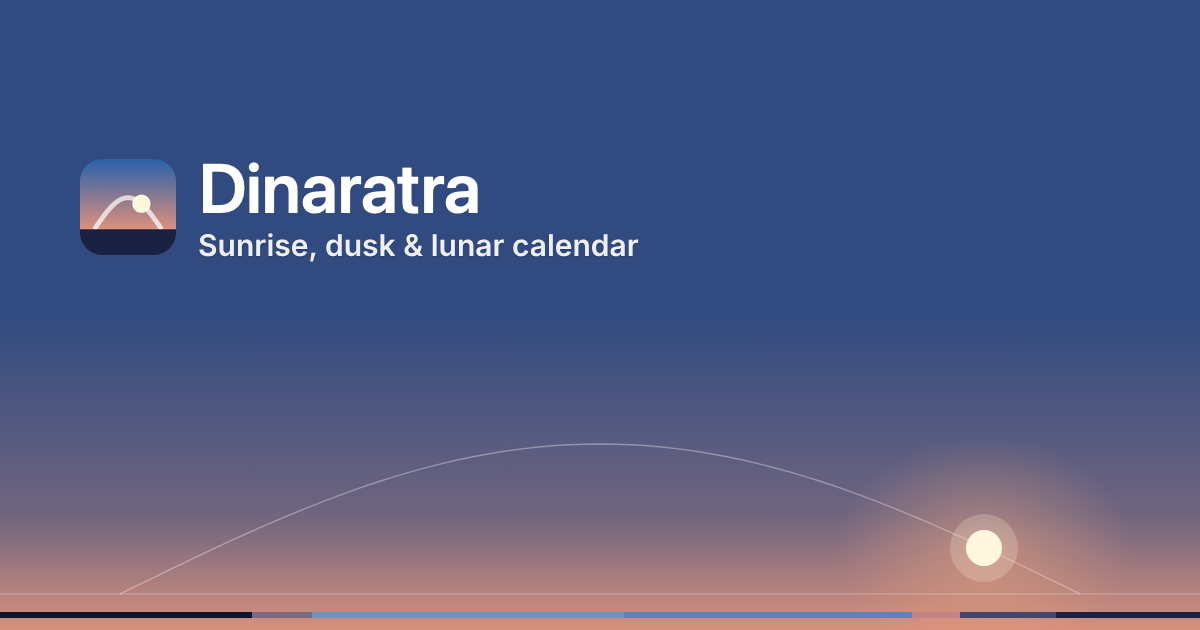
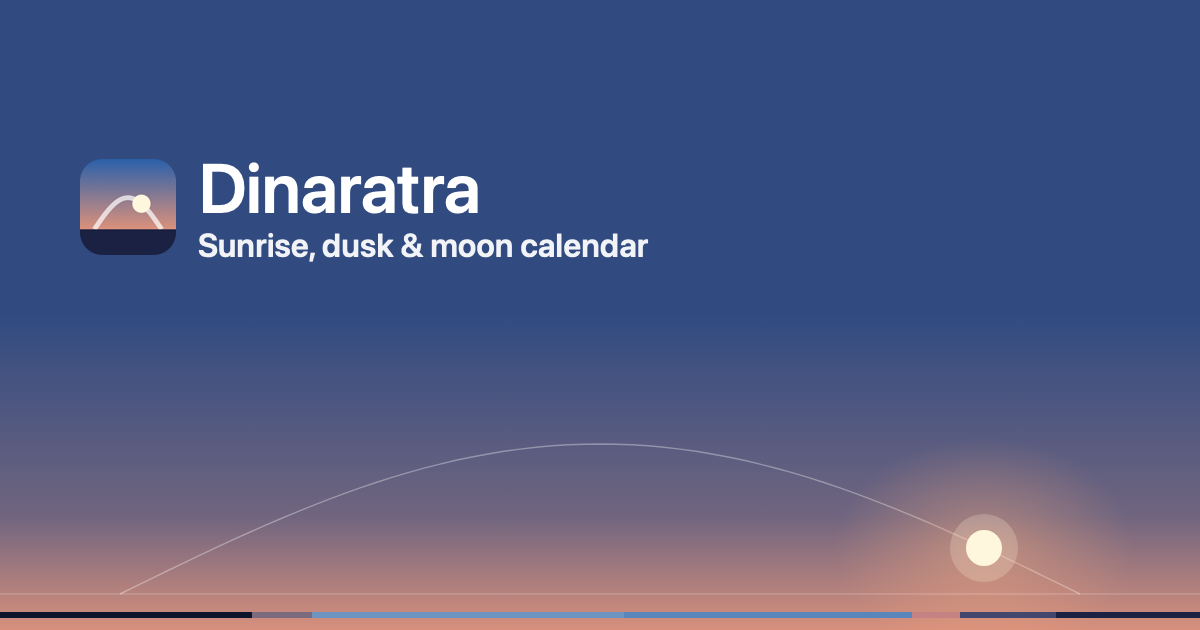
The tagline is "Sunrise, dusk & moon calendar" (the owner, 25 Nov)
It matches the App Store subtitle: the pages' descriptions, the home
page's eyebrow and the footers, and og.png's second line (served as ?v=4).

Changed region(s): [[0.1542, 0.3619, 0.555, 0.4222]]

diff --git a/index.html b/index.html
@@ -5,21 +5,21 @@
 <meta name="viewport" content="width=device-width, initial-scale=1">
 <meta name="apple-itunes-app" content="app-id=6817597114">
 <title>Dinaratra™: Sun &amp; Moon Planner</title>
-<meta name="description" content="Sunrise, dusk &amp; lunar calendar">
+<meta name="description" content="Sunrise, dusk &amp; moon calendar">
 <meta name="color-scheme" content="light dark">
 <meta name="theme-color" content="#314B81" media="(prefers-color-scheme: light)">
 <meta name="theme-color" content="#091024" media="(prefers-color-scheme: dark)">
 <link rel="icon" href="/favicon.png" type="image/png">
 <link rel="apple-touch-icon" href="/apple-touch-icon.png">
 <meta property="og:title" content="Dinaratra™: Sun &amp; Moon Planner">
-<meta property="og:description" content="Sunrise, dusk &amp; lunar calendar">
-<meta property="og:image" content="https://dinaratra.day/og.png?v=3">
+<meta property="og:description" content="Sunrise, dusk &amp; moon calendar">
+<meta property="og:image" content="https://dinaratra.day/og.png?v=4">
 <meta property="og:url" content="https://dinaratra.day/">
 <link rel="stylesheet" href="/assets/site.css">
 </head>
 <body>
 <div class="site">
-<section class="hero" aria-labelledby="h1"><div class="sky"><svg viewBox="0 0 1440 640" preserveAspectRatio="xMidYMax slice" aria-hidden="true" focusable="false"><defs><linearGradient id="hskyd" x1="0" y1="0" x2="0" y2="1"><stop offset="0" stop-color="#314B81"/><stop offset=".5" stop-color="#314B81"/><stop offset=".82" stop-color="#70657F"/><stop offset="1" stop-color="#D8907C"/></linearGradient><linearGradient id="hskyn" x1="0" y1="0" x2="0" y2="1"><stop offset="0" stop-color="#091024"/><stop offset=".7" stop-color="#0C1329"/><stop offset="1" stop-color="#101830"/></linearGradient><radialGradient id="hglow"><stop offset="0" stop-color="#FFAF7F" stop-opacity=".45"/><stop offset="1" stop-color="#FFAF7F" stop-opacity="0"/></radialGradient><radialGradient id="hmglow"><stop offset="0" stop-color="#F6F4EC" stop-opacity=".22"/><stop offset="1" stop-color="#F6F4EC" stop-opacity="0"/></radialGradient></defs><g class="day"><rect width="1440" height="640" style="fill:url(#hskyd)"/><polyline points="120.0,604.0 140.0,596.1 160.0,588.3 180.0,580.5 200.0,572.8 220.0,565.2 240.0,557.6 260.0,550.2 280.0,543.0 300.0,535.9 320.0,529.0 340.0,522.3 360.0,515.8 380.0,509.6 400.0,503.6 420.0,497.9 440.0,492.5 460.0,487.4 480.0,482.6 500.0,478.2 520.0,474.1 540.0,470.3 560.0,467.0 580.0,464.0 600.0,461.3 620.0,459.1 640.0,457.3 660.0,455.8 680.0,454.8 700.0,454.2 720.0,454.0 740.0,454.2 760.0,454.8 780.0,455.8 800.0,457.3 820.0,459.1 840.0,461.3 860.0,464.0 880.0,467.0 900.0,470.3 920.0,474.1 940.0,478.2 960.0,482.6 980.0,487.4 1000.0,492.5 1020.0,497.9 1040.0,503.6 1060.0,509.6 1080.0,515.8 1100.0,522.3 1120.0,529.0 1140.0,535.9 1160.0,543.0 1180.0,550.2 1200.0,557.6 1220.0,565.2 1240.0,572.8 1260.0,580.5 1280.0,588.3 1300.0,596.1 1320.0,604.0" style="fill:none;stroke:#FFFFFF;stroke-width:1.4;opacity:.34"/><ellipse cx="1200" cy="558" rx="150" ry="110" style="fill:url(#hglow)"/><circle cx="1200" cy="558" r="34" style="fill:#FFF6DE;opacity:.22"/><circle cx="1200" cy="558" r="18" style="fill:#FFF6DE"/></g><g class="night"><rect width="1440" height="640" style="fill:url(#hskyn)"/><circle cx="97" cy="427.48" r="1.0" style="fill:#FFFFFF;opacity:0.40"/><circle cx="194" cy="405.48" r="1.4" style="fill:#FFFFFF;opacity:0.50"/><circle cx="291" cy="489.48" r="0.7" style="fill:#FFFFFF;opacity:0.60"/><circle cx="388" cy="498.48" r="1.0" style="fill:#FFFFFF;opacity:0.30"/><circle cx="485" cy="432.48" r="1.4" style="fill:#FFFFFF;opacity:0.40"/><circle cx="582" cy="472.48" r="0.7" style="fill:#FFFFFF;opacity:0.50"/><circle cx="679" cy="437.48" r="1.0" style="fill:#FFFFFF;opacity:0.60"/><circle cx="776" cy="508.48" r="1.4" style="fill:#FFFFFF;opacity:0.30"/><circle cx="873" cy="504.48" r="0.7" style="fill:#FFFFFF;opacity:0.40"/><circle cx="970" cy="425.48" r="1.0" style="fill:#FFFFFF;opacity:0.50"/><circle cx="1067" cy="452.48" r="1.4" style="fill:#FFFFFF;opacity:0.60"/><circle cx="1164" cy="404.48" r="0.7" style="fill:#FFFFFF;opacity:0.30"/><circle cx="1261" cy="462.48" r="1.0" style="fill:#FFFFFF;opacity:0.40"/><circle cx="1358" cy="445.48" r="1.4" style="fill:#FFFFFF;opacity:0.50"/><circle cx="15" cy="534.48" r="0.7" style="fill:#FFFFFF;opacity:0.60"/><circle cx="112" cy="548.48" r="1.0" style="fill:#FFFFFF;opacity:0.30"/><circle cx="209" cy="487.48" r="1.4" style="fill:#FFFFFF;opacity:0.40"/><circle cx="306" cy="532.48" r="0.7" style="fill:#FFFFFF;opacity:0.50"/><circle cx="403" cy="502.48" r="1.0" style="fill:#FFFFFF;opacity:0.60"/><circle cx="500" cy="397.48" r="1.4" style="fill:#FFFFFF;opacity:0.30"/><circle cx="597" cy="398.48" r="0.7" style="fill:#FFFFFF;opacity:0.40"/><circle cx="694" cy="505.48" r="1.0" style="fill:#FFFFFF;opacity:0.50"/><circle cx="791" cy="537.48" r="1.4" style="fill:#FFFFFF;opacity:0.60"/><circle cx="888" cy="494.48" r="0.7" style="fill:#FFFFFF;opacity:0.30"/><circle cx="985" cy="376.48" r="1.0" style="fill:#FFFFFF;opacity:0.40"/><circle cx="1082" cy="545.48" r="1.4" style="fill:#FFFFFF;opacity:0.50"/><circle cx="1179" cy="458.48" r="0.7" style="fill:#FFFFFF;opacity:0.60"/><circle cx="1276" cy="477.48" r="1.0" style="fill:#FFFFFF;opacity:0.30"/><circle cx="1373" cy="421.48" r="1.4" style="fill:#FFFFFF;opacity:0.40"/><circle cx="30" cy="471.48" r="0.7" style="fill:#FFFFFF;opacity:0.50"/><circle cx="127" cy="446.48" r="1.0" style="fill:#FFFFFF;opacity:0.60"/><circle cx="224" cy="527.48" r="1.4" style="fill:#FFFFFF;opacity:0.30"/><circle cx="321" cy="533.48" r="0.7" style="fill:#FFFFFF;opacity:0.40"/><circle cx="418" cy="464.48" r="1.0" style="fill:#FFFFFF;opacity:0.50"/><circle cx="515" cy="501.48" r="1.4" style="fill:#FFFFFF;opacity:0.60"/><circle cx="612" cy="463.48" r="0.7" style="fill:#FFFFFF;opacity:0.30"/><circle cx="709" cy="531.48" r="1.0" style="fill:#FFFFFF;opacity:0.40"/><circle cx="806" cy="524.48" r="1.4" style="fill:#FFFFFF;opacity:0.50"/><circle cx="903" cy="442.48" r="0.7" style="fill:#FFFFFF;opacity:0.60"/><polyline points="120.0,604.0 140.0,596.1 160.0,588.3 180.0,580.5 200.0,572.8 220.0,565.2 240.0,557.6 260.0,550.2 280.0,543.0 300.0,535.9 320.0,529.0 340.0,522.3 360.0,515.8 380.0,509.6 400.0,503.6 420.0,497.9 440.0,492.5 460.0,487.4 480.0,482.6 500.0,478.2 520.0,474.1 540.0,470.3 560.0,467.0 580.0,464.0 600.0,461.3 620.0,459.1 640.0,457.3 660.0,455.8 680.0,454.8 700.0,454.2 720.0,454.0 740.0,454.2 760.0,454.8 780.0,455.8 800.0,457.3 820.0,459.1 840.0,461.3 860.0,464.0 880.0,467.0 900.0,470.3 920.0,474.1 940.0,478.2 960.0,482.6 980.0,487.4 1000.0,492.5 1020.0,497.9 1040.0,503.6 1060.0,509.6 1080.0,515.8 1100.0,522.3 1120.0,529.0 1140.0,535.9 1160.0,543.0 1180.0,550.2 1200.0,557.6 1220.0,565.2 1240.0,572.8 1260.0,580.5 1280.0,588.3 1300.0,596.1 1320.0,604.0" style="fill:none;stroke:#FFFFFF;stroke-width:1.4;opacity:.18"/><circle cx="1296" cy="128" r="60" style="fill:url(#hmglow)"/><circle cx="1296" cy="128" r="16" style="fill:#F6F4EC"/></g><line x1="0" y1="604" x2="1440" y2="604" style="stroke:#FFFFFF;stroke-width:1;opacity:.28"/><rect x="0.0" y="622" width="302.4" height="6" style="fill:#0D142B"/><rect x="302.4" y="622" width="72.0" height="6" style="fill:#7C6A7F"/><rect x="374.4" y="622" width="374.4" height="6" style="fill:#6E94C1"/><rect x="748.8" y="622" width="345.6" height="6" style="fill:#5A86BC"/><rect x="1094.4" y="622" width="57.6" height="6" style="fill:#C48283"/><rect x="1152.0" y="622" width="115.2" height="6" style="fill:#43476D"/><rect x="1267.2" y="622" width="172.8" height="6" style="fill:#1A2142"/></svg></div><header class="hdr"><div class="wrap"><a class="brand" href="/"><img class="icon" src="/apple-touch-icon.png" alt="" width="36" height="36"><span>Dinaratra™</span></a><nav aria-label="Site"><a href="/privacy/">Privacy</a><a href="/support/">Support</a></nav></div></header><div class="wrap hero-in"><div class="hero-text"><p class="eyebrow">Sunrise, dusk &amp; lunar calendar</p><h1 id="h1">Dinaratra™ puts the real sun and moon on your day.</h1><p class="lede">Sunrise, sunset, the twilights and the moon are calculated on your iPhone for where you are, and each day’s classical Vedic reading comes with its source. It makes no predictions. You decide.</p><div class="cta"><a class="badge" href="https://apps.apple.com/app/id6817597114"><img src="/assets/badges/app-store-badge-black.svg" alt="Download on the App Store" height="54"></a></div></div><figure class="shot hero-shot">
+<section class="hero" aria-labelledby="h1"><div class="sky"><svg viewBox="0 0 1440 640" preserveAspectRatio="xMidYMax slice" aria-hidden="true" focusable="false"><defs><linearGradient id="hskyd" x1="0" y1="0" x2="0" y2="1"><stop offset="0" stop-color="#314B81"/><stop offset=".5" stop-color="#314B81"/><stop offset=".82" stop-color="#70657F"/><stop offset="1" stop-color="#D8907C"/></linearGradient><linearGradient id="hskyn" x1="0" y1="0" x2="0" y2="1"><stop offset="0" stop-color="#091024"/><stop offset=".7" stop-color="#0C1329"/><stop offset="1" stop-color="#101830"/></linearGradient><radialGradient id="hglow"><stop offset="0" stop-color="#FFAF7F" stop-opacity=".45"/><stop offset="1" stop-color="#FFAF7F" stop-opacity="0"/></radialGradient><radialGradient id="hmglow"><stop offset="0" stop-color="#F6F4EC" stop-opacity=".22"/><stop offset="1" stop-color="#F6F4EC" stop-opacity="0"/></radialGradient></defs><g class="day"><rect width="1440" height="640" style="fill:url(#hskyd)"/><polyline points="120.0,604.0 140.0,596.1 160.0,588.3 180.0,580.5 200.0,572.8 220.0,565.2 240.0,557.6 260.0,550.2 280.0,543.0 300.0,535.9 320.0,529.0 340.0,522.3 360.0,515.8 380.0,509.6 400.0,503.6 420.0,497.9 440.0,492.5 460.0,487.4 480.0,482.6 500.0,478.2 520.0,474.1 540.0,470.3 560.0,467.0 580.0,464.0 600.0,461.3 620.0,459.1 640.0,457.3 660.0,455.8 680.0,454.8 700.0,454.2 720.0,454.0 740.0,454.2 760.0,454.8 780.0,455.8 800.0,457.3 820.0,459.1 840.0,461.3 860.0,464.0 880.0,467.0 900.0,470.3 920.0,474.1 940.0,478.2 960.0,482.6 980.0,487.4 1000.0,492.5 1020.0,497.9 1040.0,503.6 1060.0,509.6 1080.0,515.8 1100.0,522.3 1120.0,529.0 1140.0,535.9 1160.0,543.0 1180.0,550.2 1200.0,557.6 1220.0,565.2 1240.0,572.8 1260.0,580.5 1280.0,588.3 1300.0,596.1 1320.0,604.0" style="fill:none;stroke:#FFFFFF;stroke-width:1.4;opacity:.34"/><ellipse cx="1200" cy="558" rx="150" ry="110" style="fill:url(#hglow)"/><circle cx="1200" cy="558" r="34" style="fill:#FFF6DE;opacity:.22"/><circle cx="1200" cy="558" r="18" style="fill:#FFF6DE"/></g><g class="night"><rect width="1440" height="640" style="fill:url(#hskyn)"/><circle cx="97" cy="427.48" r="1.0" style="fill:#FFFFFF;opacity:0.40"/><circle cx="194" cy="405.48" r="1.4" style="fill:#FFFFFF;opacity:0.50"/><circle cx="291" cy="489.48" r="0.7" style="fill:#FFFFFF;opacity:0.60"/><circle cx="388" cy="498.48" r="1.0" style="fill:#FFFFFF;opacity:0.30"/><circle cx="485" cy="432.48" r="1.4" style="fill:#FFFFFF;opacity:0.40"/><circle cx="582" cy="472.48" r="0.7" style="fill:#FFFFFF;opacity:0.50"/><circle cx="679" cy="437.48" r="1.0" style="fill:#FFFFFF;opacity:0.60"/><circle cx="776" cy="508.48" r="1.4" style="fill:#FFFFFF;opacity:0.30"/><circle cx="873" cy="504.48" r="0.7" style="fill:#FFFFFF;opacity:0.40"/><circle cx="970" cy="425.48" r="1.0" style="fill:#FFFFFF;opacity:0.50"/><circle cx="1067" cy="452.48" r="1.4" style="fill:#FFFFFF;opacity:0.60"/><circle cx="1164" cy="404.48" r="0.7" style="fill:#FFFFFF;opacity:0.30"/><circle cx="1261" cy="462.48" r="1.0" style="fill:#FFFFFF;opacity:0.40"/><circle cx="1358" cy="445.48" r="1.4" style="fill:#FFFFFF;opacity:0.50"/><circle cx="15" cy="534.48" r="0.7" style="fill:#FFFFFF;opacity:0.60"/><circle cx="112" cy="548.48" r="1.0" style="fill:#FFFFFF;opacity:0.30"/><circle cx="209" cy="487.48" r="1.4" style="fill:#FFFFFF;opacity:0.40"/><circle cx="306" cy="532.48" r="0.7" style="fill:#FFFFFF;opacity:0.50"/><circle cx="403" cy="502.48" r="1.0" style="fill:#FFFFFF;opacity:0.60"/><circle cx="500" cy="397.48" r="1.4" style="fill:#FFFFFF;opacity:0.30"/><circle cx="597" cy="398.48" r="0.7" style="fill:#FFFFFF;opacity:0.40"/><circle cx="694" cy="505.48" r="1.0" style="fill:#FFFFFF;opacity:0.50"/><circle cx="791" cy="537.48" r="1.4" style="fill:#FFFFFF;opacity:0.60"/><circle cx="888" cy="494.48" r="0.7" style="fill:#FFFFFF;opacity:0.30"/><circle cx="985" cy="376.48" r="1.0" style="fill:#FFFFFF;opacity:0.40"/><circle cx="1082" cy="545.48" r="1.4" style="fill:#FFFFFF;opacity:0.50"/><circle cx="1179" cy="458.48" r="0.7" style="fill:#FFFFFF;opacity:0.60"/><circle cx="1276" cy="477.48" r="1.0" style="fill:#FFFFFF;opacity:0.30"/><circle cx="1373" cy="421.48" r="1.4" style="fill:#FFFFFF;opacity:0.40"/><circle cx="30" cy="471.48" r="0.7" style="fill:#FFFFFF;opacity:0.50"/><circle cx="127" cy="446.48" r="1.0" style="fill:#FFFFFF;opacity:0.60"/><circle cx="224" cy="527.48" r="1.4" style="fill:#FFFFFF;opacity:0.30"/><circle cx="321" cy="533.48" r="0.7" style="fill:#FFFFFF;opacity:0.40"/><circle cx="418" cy="464.48" r="1.0" style="fill:#FFFFFF;opacity:0.50"/><circle cx="515" cy="501.48" r="1.4" style="fill:#FFFFFF;opacity:0.60"/><circle cx="612" cy="463.48" r="0.7" style="fill:#FFFFFF;opacity:0.30"/><circle cx="709" cy="531.48" r="1.0" style="fill:#FFFFFF;opacity:0.40"/><circle cx="806" cy="524.48" r="1.4" style="fill:#FFFFFF;opacity:0.50"/><circle cx="903" cy="442.48" r="0.7" style="fill:#FFFFFF;opacity:0.60"/><polyline points="120.0,604.0 140.0,596.1 160.0,588.3 180.0,580.5 200.0,572.8 220.0,565.2 240.0,557.6 260.0,550.2 280.0,543.0 300.0,535.9 320.0,529.0 340.0,522.3 360.0,515.8 380.0,509.6 400.0,503.6 420.0,497.9 440.0,492.5 460.0,487.4 480.0,482.6 500.0,478.2 520.0,474.1 540.0,470.3 560.0,467.0 580.0,464.0 600.0,461.3 620.0,459.1 640.0,457.3 660.0,455.8 680.0,454.8 700.0,454.2 720.0,454.0 740.0,454.2 760.0,454.8 780.0,455.8 800.0,457.3 820.0,459.1 840.0,461.3 860.0,464.0 880.0,467.0 900.0,470.3 920.0,474.1 940.0,478.2 960.0,482.6 980.0,487.4 1000.0,492.5 1020.0,497.9 1040.0,503.6 1060.0,509.6 1080.0,515.8 1100.0,522.3 1120.0,529.0 1140.0,535.9 1160.0,543.0 1180.0,550.2 1200.0,557.6 1220.0,565.2 1240.0,572.8 1260.0,580.5 1280.0,588.3 1300.0,596.1 1320.0,604.0" style="fill:none;stroke:#FFFFFF;stroke-width:1.4;opacity:.18"/><circle cx="1296" cy="128" r="60" style="fill:url(#hmglow)"/><circle cx="1296" cy="128" r="16" style="fill:#F6F4EC"/></g><line x1="0" y1="604" x2="1440" y2="604" style="stroke:#FFFFFF;stroke-width:1;opacity:.28"/><rect x="0.0" y="622" width="302.4" height="6" style="fill:#0D142B"/><rect x="302.4" y="622" width="72.0" height="6" style="fill:#7C6A7F"/><rect x="374.4" y="622" width="374.4" height="6" style="fill:#6E94C1"/><rect x="748.8" y="622" width="345.6" height="6" style="fill:#5A86BC"/><rect x="1094.4" y="622" width="57.6" height="6" style="fill:#C48283"/><rect x="1152.0" y="622" width="115.2" height="6" style="fill:#43476D"/><rect x="1267.2" y="622" width="172.8" height="6" style="fill:#1A2142"/></svg></div><header class="hdr"><div class="wrap"><a class="brand" href="/"><img class="icon" src="/apple-touch-icon.png" alt="" width="36" height="36"><span>Dinaratra™</span></a><nav aria-label="Site"><a href="/privacy/">Privacy</a><a href="/support/">Support</a></nav></div></header><div class="wrap hero-in"><div class="hero-text"><p class="eyebrow">Sunrise, dusk &amp; moon calendar</p><h1 id="h1">Dinaratra™ puts the real sun and moon on your day.</h1><p class="lede">Sunrise, sunset, the twilights and the moon are calculated on your iPhone for where you are, and each day’s classical Vedic reading comes with its source. It makes no predictions. You decide.</p><div class="cta"><a class="badge" href="https://apps.apple.com/app/id6817597114"><img src="/assets/badges/app-store-badge-black.svg" alt="Download on the App Store" height="54"></a></div></div><figure class="shot hero-shot">
 <!-- SHOT:shot-1 · store screenshot 1 · M-101i capture, 1320 × 2868 PNG, no device frame. Replace the slot <div> with:
      <img src="/screens/shot-1.png" width="1320" height="2868" alt="[alt text · copy: owner]" loading="lazy" decoding="async">
 -->
@@ -47,7 +47,7 @@
 <!-- SHOT:shot-5 · store screenshot 5 · M-101i capture, 1320 × 2868 PNG, no device frame. Replace the slot <div> with:
      <img src="/screens/shot-5.png" width="1320" height="2868" alt="[alt text · copy: owner]" loading="lazy" decoding="async">
 -->
-<img src="/screens/shot-5.png" width="1320" height="2868" alt="Lock Screen widgets with sunrise, sunset and the Moon" loading="lazy" decoding="async"></figure></div></section><section class="band" aria-labelledby="sp"><div class="sky"><svg viewBox="0 0 1440 520" preserveAspectRatio="xMidYMax slice" aria-hidden="true" focusable="false"><defs><linearGradient id="bskyd" x1="0" y1="0" x2="0" y2="1"><stop offset="0" stop-color="#314B81"/><stop offset=".5" stop-color="#314B81"/><stop offset=".82" stop-color="#70657F"/><stop offset="1" stop-color="#D8907C"/></linearGradient><linearGradient id="bskyn" x1="0" y1="0" x2="0" y2="1"><stop offset="0" stop-color="#091024"/><stop offset=".7" stop-color="#0C1329"/><stop offset="1" stop-color="#101830"/></linearGradient><radialGradient id="bglow"><stop offset="0" stop-color="#FFAF7F" stop-opacity=".45"/><stop offset="1" stop-color="#FFAF7F" stop-opacity="0"/></radialGradient><radialGradient id="bmglow"><stop offset="0" stop-color="#F6F4EC" stop-opacity=".22"/><stop offset="1" stop-color="#F6F4EC" stop-opacity="0"/></radialGradient></defs><g class="day"><rect width="1440" height="520" style="fill:url(#bskyd)"/><ellipse cx="1200" cy="438" rx="150" ry="110" style="fill:url(#bglow)"/><circle cx="1200" cy="438" r="34" style="fill:#FFF6DE;opacity:.22"/><circle cx="1200" cy="438" r="18" style="fill:#FFF6DE"/></g><g class="night"><rect width="1440" height="520" style="fill:url(#bskyn)"/><circle cx="97" cy="353.08" r="1.0" style="fill:#FFFFFF;opacity:0.40"/><circle cx="194" cy="367.08" r="1.4" style="fill:#FFFFFF;opacity:0.50"/><circle cx="291" cy="342.08" r="0.7" style="fill:#FFFFFF;opacity:0.60"/><circle cx="388" cy="423.08" r="1.0" style="fill:#FFFFFF;opacity:0.30"/><circle cx="485" cy="320.08" r="1.4" style="fill:#FFFFFF;opacity:0.40"/><circle cx="582" cy="323.08" r="0.7" style="fill:#FFFFFF;opacity:0.50"/><circle cx="679" cy="432.08" r="1.0" style="fill:#FFFFFF;opacity:0.60"/><circle cx="776" cy="357.08" r="1.4" style="fill:#FFFFFF;opacity:0.30"/><circle cx="873" cy="388.08" r="0.7" style="fill:#FFFFFF;opacity:0.40"/><circle cx="970" cy="380.08" r="1.0" style="fill:#FFFFFF;opacity:0.50"/><circle cx="1067" cy="333.08" r="1.4" style="fill:#FFFFFF;opacity:0.60"/><circle cx="1164" cy="392.08" r="0.7" style="fill:#FFFFFF;opacity:0.30"/><circle cx="1261" cy="412.08" r="1.0" style="fill:#FFFFFF;opacity:0.40"/><circle cx="1358" cy="393.08" r="1.4" style="fill:#FFFFFF;opacity:0.50"/><circle cx="15" cy="335.08" r="0.7" style="fill:#FFFFFF;opacity:0.60"/><circle cx="112" cy="383.08" r="1.0" style="fill:#FFFFFF;opacity:0.30"/><circle cx="209" cy="392.08" r="1.4" style="fill:#FFFFFF;opacity:0.40"/><circle cx="306" cy="362.08" r="0.7" style="fill:#FFFFFF;opacity:0.50"/><circle cx="403" cy="438.08" r="1.0" style="fill:#FFFFFF;opacity:0.60"/><circle cx="500" cy="330.08" r="1.4" style="fill:#FFFFFF;opacity:0.30"/><circle cx="597" cy="328.08" r="0.7" style="fill:#FFFFFF;opacity:0.40"/><circle cx="694" cy="432.08" r="1.0" style="fill:#FFFFFF;opacity:0.50"/><circle cx="791" cy="352.08" r="1.4" style="fill:#FFFFFF;opacity:0.60"/><circle cx="888" cy="378.08" r="0.7" style="fill:#FFFFFF;opacity:0.30"/><circle cx="985" cy="365.08" r="1.0" style="fill:#FFFFFF;opacity:0.40"/><circle cx="1082" cy="313.08" r="1.4" style="fill:#FFFFFF;opacity:0.50"/><circle cx="1179" cy="367.08" r="0.7" style="fill:#FFFFFF;opacity:0.60"/><circle cx="1276" cy="382.08" r="1.0" style="fill:#FFFFFF;opacity:0.30"/><circle cx="1373" cy="358.08" r="1.4" style="fill:#FFFFFF;opacity:0.40"/><circle cx="30" cy="440.08" r="0.7" style="fill:#FFFFFF;opacity:0.50"/><circle cx="127" cy="338.08" r="1.0" style="fill:#FFFFFF;opacity:0.60"/><circle cx="224" cy="342.08" r="1.4" style="fill:#FFFFFF;opacity:0.30"/><circle cx="321" cy="307.08" r="0.7" style="fill:#FFFFFF;opacity:0.40"/><circle cx="418" cy="378.08" r="1.0" style="fill:#FFFFFF;opacity:0.50"/><circle cx="515" cy="410.08" r="1.4" style="fill:#FFFFFF;opacity:0.60"/><circle cx="612" cy="403.08" r="0.7" style="fill:#FFFFFF;opacity:0.30"/><circle cx="709" cy="357.08" r="1.0" style="fill:#FFFFFF;opacity:0.40"/><circle cx="806" cy="417.08" r="1.4" style="fill:#FFFFFF;opacity:0.50"/><circle cx="903" cy="438.08" r="0.7" style="fill:#FFFFFF;opacity:0.60"/><circle cx="1296" cy="104" r="60" style="fill:url(#bmglow)"/><circle cx="1296" cy="104" r="16" style="fill:#F6F4EC"/></g><line x1="0" y1="484" x2="1440" y2="484" style="stroke:#FFFFFF;stroke-width:1;opacity:.28"/><rect x="0.0" y="502" width="302.4" height="6" style="fill:#0D142B"/><rect x="302.4" y="502" width="72.0" height="6" style="fill:#7C6A7F"/><rect x="374.4" y="502" width="374.4" height="6" style="fill:#6E94C1"/><rect x="748.8" y="502" width="345.6" height="6" style="fill:#5A86BC"/><rect x="1094.4" y="502" width="57.6" height="6" style="fill:#C48283"/><rect x="1152.0" y="502" width="115.2" height="6" style="fill:#43476D"/><rect x="1267.2" y="502" width="172.8" height="6" style="fill:#1A2142"/></svg></div><div class="wrap band-in"><h2 class="kicker" id="sp">PRIVATE BY DESIGN</h2><p class="h">Private: no account, no ads, nothing leaves your iPhone</p><ul class="pts"><li>No account, no ads, no tracking</li><li>Works offline. Nothing leaves your iPhone.</li></ul><div class="cta"><a class="badge" href="https://apps.apple.com/app/id6817597114"><img src="/assets/badges/app-store-badge-black.svg" alt="Download on the App Store" height="54"></a></div></div></section></main><footer class="ftr"><div class="wrap"><div class="ftr-brand"><svg class="icon" viewBox="0 0 64 64" aria-hidden="true" focusable="false"><defs><linearGradient id="igf" x1="0" y1="0" x2="0" y2="1"><stop offset="0" stop-color="#2B60A9"/><stop offset=".6" stop-color="#5987C0"/><stop offset="1" stop-color="#C48283"/></linearGradient></defs><rect width="64" height="64" rx="15" fill="url(#igf)"/><circle cx="25" cy="31" r="11" fill="#FFF6DE"/><rect x="0" y="45" width="64" height="1.6" fill="#FFFFFF" fill-opacity=".5"/></svg><div><p class="ftr-name">Dinaratra™: Sun &amp; Moon Planner</p><p class="ftr-sub">Sunrise, dusk &amp; lunar calendar</p></div></div><nav aria-label="Footer"><a href="/privacy/">Privacy</a><a href="/support/">Support</a></nav><p class="copy">© 2026 Raama Hari Dev</p><p class="legal">Apple and the Apple logo are trademarks of Apple Inc., registered in the U.S. and other countries. App Store is a service mark of Apple Inc.</p></div></footer>
+<img src="/screens/shot-5.png" width="1320" height="2868" alt="Lock Screen widgets with sunrise, sunset and the Moon" loading="lazy" decoding="async"></figure></div></section><section class="band" aria-labelledby="sp"><div class="sky"><svg viewBox="0 0 1440 520" preserveAspectRatio="xMidYMax slice" aria-hidden="true" focusable="false"><defs><linearGradient id="bskyd" x1="0" y1="0" x2="0" y2="1"><stop offset="0" stop-color="#314B81"/><stop offset=".5" stop-color="#314B81"/><stop offset=".82" stop-color="#70657F"/><stop offset="1" stop-color="#D8907C"/></linearGradient><linearGradient id="bskyn" x1="0" y1="0" x2="0" y2="1"><stop offset="0" stop-color="#091024"/><stop offset=".7" stop-color="#0C1329"/><stop offset="1" stop-color="#101830"/></linearGradient><radialGradient id="bglow"><stop offset="0" stop-color="#FFAF7F" stop-opacity=".45"/><stop offset="1" stop-color="#FFAF7F" stop-opacity="0"/></radialGradient><radialGradient id="bmglow"><stop offset="0" stop-color="#F6F4EC" stop-opacity=".22"/><stop offset="1" stop-color="#F6F4EC" stop-opacity="0"/></radialGradient></defs><g class="day"><rect width="1440" height="520" style="fill:url(#bskyd)"/><ellipse cx="1200" cy="438" rx="150" ry="110" style="fill:url(#bglow)"/><circle cx="1200" cy="438" r="34" style="fill:#FFF6DE;opacity:.22"/><circle cx="1200" cy="438" r="18" style="fill:#FFF6DE"/></g><g class="night"><rect width="1440" height="520" style="fill:url(#bskyn)"/><circle cx="97" cy="353.08" r="1.0" style="fill:#FFFFFF;opacity:0.40"/><circle cx="194" cy="367.08" r="1.4" style="fill:#FFFFFF;opacity:0.50"/><circle cx="291" cy="342.08" r="0.7" style="fill:#FFFFFF;opacity:0.60"/><circle cx="388" cy="423.08" r="1.0" style="fill:#FFFFFF;opacity:0.30"/><circle cx="485" cy="320.08" r="1.4" style="fill:#FFFFFF;opacity:0.40"/><circle cx="582" cy="323.08" r="0.7" style="fill:#FFFFFF;opacity:0.50"/><circle cx="679" cy="432.08" r="1.0" style="fill:#FFFFFF;opacity:0.60"/><circle cx="776" cy="357.08" r="1.4" style="fill:#FFFFFF;opacity:0.30"/><circle cx="873" cy="388.08" r="0.7" style="fill:#FFFFFF;opacity:0.40"/><circle cx="970" cy="380.08" r="1.0" style="fill:#FFFFFF;opacity:0.50"/><circle cx="1067" cy="333.08" r="1.4" style="fill:#FFFFFF;opacity:0.60"/><circle cx="1164" cy="392.08" r="0.7" style="fill:#FFFFFF;opacity:0.30"/><circle cx="1261" cy="412.08" r="1.0" style="fill:#FFFFFF;opacity:0.40"/><circle cx="1358" cy="393.08" r="1.4" style="fill:#FFFFFF;opacity:0.50"/><circle cx="15" cy="335.08" r="0.7" style="fill:#FFFFFF;opacity:0.60"/><circle cx="112" cy="383.08" r="1.0" style="fill:#FFFFFF;opacity:0.30"/><circle cx="209" cy="392.08" r="1.4" style="fill:#FFFFFF;opacity:0.40"/><circle cx="306" cy="362.08" r="0.7" style="fill:#FFFFFF;opacity:0.50"/><circle cx="403" cy="438.08" r="1.0" style="fill:#FFFFFF;opacity:0.60"/><circle cx="500" cy="330.08" r="1.4" style="fill:#FFFFFF;opacity:0.30"/><circle cx="597" cy="328.08" r="0.7" style="fill:#FFFFFF;opacity:0.40"/><circle cx="694" cy="432.08" r="1.0" style="fill:#FFFFFF;opacity:0.50"/><circle cx="791" cy="352.08" r="1.4" style="fill:#FFFFFF;opacity:0.60"/><circle cx="888" cy="378.08" r="0.7" style="fill:#FFFFFF;opacity:0.30"/><circle cx="985" cy="365.08" r="1.0" style="fill:#FFFFFF;opacity:0.40"/><circle cx="1082" cy="313.08" r="1.4" style="fill:#FFFFFF;opacity:0.50"/><circle cx="1179" cy="367.08" r="0.7" style="fill:#FFFFFF;opacity:0.60"/><circle cx="1276" cy="382.08" r="1.0" style="fill:#FFFFFF;opacity:0.30"/><circle cx="1373" cy="358.08" r="1.4" style="fill:#FFFFFF;opacity:0.40"/><circle cx="30" cy="440.08" r="0.7" style="fill:#FFFFFF;opacity:0.50"/><circle cx="127" cy="338.08" r="1.0" style="fill:#FFFFFF;opacity:0.60"/><circle cx="224" cy="342.08" r="1.4" style="fill:#FFFFFF;opacity:0.30"/><circle cx="321" cy="307.08" r="0.7" style="fill:#FFFFFF;opacity:0.40"/><circle cx="418" cy="378.08" r="1.0" style="fill:#FFFFFF;opacity:0.50"/><circle cx="515" cy="410.08" r="1.4" style="fill:#FFFFFF;opacity:0.60"/><circle cx="612" cy="403.08" r="0.7" style="fill:#FFFFFF;opacity:0.30"/><circle cx="709" cy="357.08" r="1.0" style="fill:#FFFFFF;opacity:0.40"/><circle cx="806" cy="417.08" r="1.4" style="fill:#FFFFFF;opacity:0.50"/><circle cx="903" cy="438.08" r="0.7" style="fill:#FFFFFF;opacity:0.60"/><circle cx="1296" cy="104" r="60" style="fill:url(#bmglow)"/><circle cx="1296" cy="104" r="16" style="fill:#F6F4EC"/></g><line x1="0" y1="484" x2="1440" y2="484" style="stroke:#FFFFFF;stroke-width:1;opacity:.28"/><rect x="0.0" y="502" width="302.4" height="6" style="fill:#0D142B"/><rect x="302.4" y="502" width="72.0" height="6" style="fill:#7C6A7F"/><rect x="374.4" y="502" width="374.4" height="6" style="fill:#6E94C1"/><rect x="748.8" y="502" width="345.6" height="6" style="fill:#5A86BC"/><rect x="1094.4" y="502" width="57.6" height="6" style="fill:#C48283"/><rect x="1152.0" y="502" width="115.2" height="6" style="fill:#43476D"/><rect x="1267.2" y="502" width="172.8" height="6" style="fill:#1A2142"/></svg></div><div class="wrap band-in"><h2 class="kicker" id="sp">PRIVATE BY DESIGN</h2><p class="h">Private: no account, no ads, nothing leaves your iPhone</p><ul class="pts"><li>No account, no ads, no tracking</li><li>Works offline. Nothing leaves your iPhone.</li></ul><div class="cta"><a class="badge" href="https://apps.apple.com/app/id6817597114"><img src="/assets/badges/app-store-badge-black.svg" alt="Download on the App Store" height="54"></a></div></div></section></main><footer class="ftr"><div class="wrap"><div class="ftr-brand"><svg class="icon" viewBox="0 0 64 64" aria-hidden="true" focusable="false"><defs><linearGradient id="igf" x1="0" y1="0" x2="0" y2="1"><stop offset="0" stop-color="#2B60A9"/><stop offset=".6" stop-color="#5987C0"/><stop offset="1" stop-color="#C48283"/></linearGradient></defs><rect width="64" height="64" rx="15" fill="url(#igf)"/><circle cx="25" cy="31" r="11" fill="#FFF6DE"/><rect x="0" y="45" width="64" height="1.6" fill="#FFFFFF" fill-opacity=".5"/></svg><div><p class="ftr-name">Dinaratra™: Sun &amp; Moon Planner</p><p class="ftr-sub">Sunrise, dusk &amp; moon calendar</p></div></div><nav aria-label="Footer"><a href="/privacy/">Privacy</a><a href="/support/">Support</a></nav><p class="copy">© 2026 Raama Hari Dev</p><p class="legal">Apple and the Apple logo are trademarks of Apple Inc., registered in the U.S. and other countries. App Store is a service mark of Apple Inc.</p></div></footer>
 </div>
 </body>
 </html>

diff --git a/support/index.html b/support/index.html
@@ -12,8 +12,8 @@
 <link rel="icon" href="/favicon.png" type="image/png">
 <link rel="apple-touch-icon" href="/apple-touch-icon.png">
 <meta property="og:title" content="Dinaratra™: Sun &amp; Moon Planner">
-<meta property="og:description" content="Sunrise, dusk &amp; lunar calendar">
-<meta property="og:image" content="https://dinaratra.day/og.png?v=3">
+<meta property="og:description" content="Sunrise, dusk &amp; moon calendar">
+<meta property="og:image" content="https://dinaratra.day/og.png?v=4">
 <meta property="og:url" content="https://dinaratra.day/">
 <link rel="stylesheet" href="/assets/site.css">
 </head>
@@ -33,7 +33,7 @@
 <h3>How do I delete my data?</h3><p>Settings › Privacy › Delete personal data removes your plans and your event tags from your iPhone.</p>
 <h3>What won’t Dinaratra time?</h3><p>It offers no timing for medical procedures, legal steps or financial decisions. For those, follow the advice of the people responsible for them. For weddings and family ceremonies, your family’s priest or panchang decides.</p>
 <h3>How do I ask for a refund?</h3><p>Apple handles purchases and refunds. Go to <a href="https://reportaproblem.apple.com">reportaproblem.apple.com</a> and sign in with your Apple Account.</p>
-<p><strong>Privacy:</strong> our privacy policy is at <a href="/privacy/">dinaratra.day/privacy</a>.</p></article></main><footer class="ftr"><div class="wrap"><div class="ftr-brand"><svg class="icon" viewBox="0 0 64 64" aria-hidden="true" focusable="false"><defs><linearGradient id="igf" x1="0" y1="0" x2="0" y2="1"><stop offset="0" stop-color="#2B60A9"/><stop offset=".6" stop-color="#5987C0"/><stop offset="1" stop-color="#C48283"/></linearGradient></defs><rect width="64" height="64" rx="15" fill="url(#igf)"/><circle cx="25" cy="31" r="11" fill="#FFF6DE"/><rect x="0" y="45" width="64" height="1.6" fill="#FFFFFF" fill-opacity=".5"/></svg><div><p class="ftr-name">Dinaratra™: Sun &amp; Moon Planner</p><p class="ftr-sub">Sunrise, dusk &amp; lunar calendar</p></div></div><nav aria-label="Footer"><a href="/privacy/">Privacy</a><a href="/support/">Support</a></nav><p class="copy">© 2026 Raama Hari Dev</p></div></footer>
+<p><strong>Privacy:</strong> our privacy policy is at <a href="/privacy/">dinaratra.day/privacy</a>.</p></article></main><footer class="ftr"><div class="wrap"><div class="ftr-brand"><svg class="icon" viewBox="0 0 64 64" aria-hidden="true" focusable="false"><defs><linearGradient id="igf" x1="0" y1="0" x2="0" y2="1"><stop offset="0" stop-color="#2B60A9"/><stop offset=".6" stop-color="#5987C0"/><stop offset="1" stop-color="#C48283"/></linearGradient></defs><rect width="64" height="64" rx="15" fill="url(#igf)"/><circle cx="25" cy="31" r="11" fill="#FFF6DE"/><rect x="0" y="45" width="64" height="1.6" fill="#FFFFFF" fill-opacity=".5"/></svg><div><p class="ftr-name">Dinaratra™: Sun &amp; Moon Planner</p><p class="ftr-sub">Sunrise, dusk &amp; moon calendar</p></div></div><nav aria-label="Footer"><a href="/privacy/">Privacy</a><a href="/support/">Support</a></nav><p class="copy">© 2026 Raama Hari Dev</p></div></footer>
 </div>
 </body>
 </html>

diff --git a/privacy/index.html b/privacy/index.html
@@ -12,8 +12,8 @@
 <link rel="icon" href="/favicon.png" type="image/png">
 <link rel="apple-touch-icon" href="/apple-touch-icon.png">
 <meta property="og:title" content="Dinaratra™: Sun &amp; Moon Planner">
-<meta property="og:description" content="Sunrise, dusk &amp; lunar calendar">
-<meta property="og:image" content="https://dinaratra.day/og.png?v=3">
+<meta property="og:description" content="Sunrise, dusk &amp; moon calendar">
+<meta property="og:image" content="https://dinaratra.day/og.png?v=4">
 <meta property="og:url" content="https://dinaratra.day/">
 <link rel="stylesheet" href="/assets/site.css">
 </head>
@@ -45,7 +45,7 @@
 <h2>Your rights</h2>
 <p>Where a privacy law gives you rights over personal data, such as the GDPR, you can ask us to see or delete any feedback you’ve sent, at <a href="mailto:hello@dinaratra.day">hello@dinaratra.day</a>.</p>
 <h2>Changes</h2>
-<p>If this policy changes, we’ll update this page and its date.</p></article></main><footer class="ftr"><div class="wrap"><div class="ftr-brand"><svg class="icon" viewBox="0 0 64 64" aria-hidden="true" focusable="false"><defs><linearGradient id="igf" x1="0" y1="0" x2="0" y2="1"><stop offset="0" stop-color="#2B60A9"/><stop offset=".6" stop-color="#5987C0"/><stop offset="1" stop-color="#C48283"/></linearGradient></defs><rect width="64" height="64" rx="15" fill="url(#igf)"/><circle cx="25" cy="31" r="11" fill="#FFF6DE"/><rect x="0" y="45" width="64" height="1.6" fill="#FFFFFF" fill-opacity=".5"/></svg><div><p class="ftr-name">Dinaratra™: Sun &amp; Moon Planner</p><p class="ftr-sub">Sunrise, dusk &amp; lunar calendar</p></div></div><nav aria-label="Footer"><a href="/privacy/">Privacy</a><a href="/support/">Support</a></nav><p class="copy">© 2026 Raama Hari Dev</p></div></footer>
+<p>If this policy changes, we’ll update this page and its date.</p></article></main><footer class="ftr"><div class="wrap"><div class="ftr-brand"><svg class="icon" viewBox="0 0 64 64" aria-hidden="true" focusable="false"><defs><linearGradient id="igf" x1="0" y1="0" x2="0" y2="1"><stop offset="0" stop-color="#2B60A9"/><stop offset=".6" stop-color="#5987C0"/><stop offset="1" stop-color="#C48283"/></linearGradient></defs><rect width="64" height="64" rx="15" fill="url(#igf)"/><circle cx="25" cy="31" r="11" fill="#FFF6DE"/><rect x="0" y="45" width="64" height="1.6" fill="#FFFFFF" fill-opacity=".5"/></svg><div><p class="ftr-name">Dinaratra™: Sun &amp; Moon Planner</p><p class="ftr-sub">Sunrise, dusk &amp; moon calendar</p></div></div><nav aria-label="Footer"><a href="/privacy/">Privacy</a><a href="/support/">Support</a></nav><p class="copy">© 2026 Raama Hari Dev</p></div></footer>
 </div>
 </body>
 </html>
